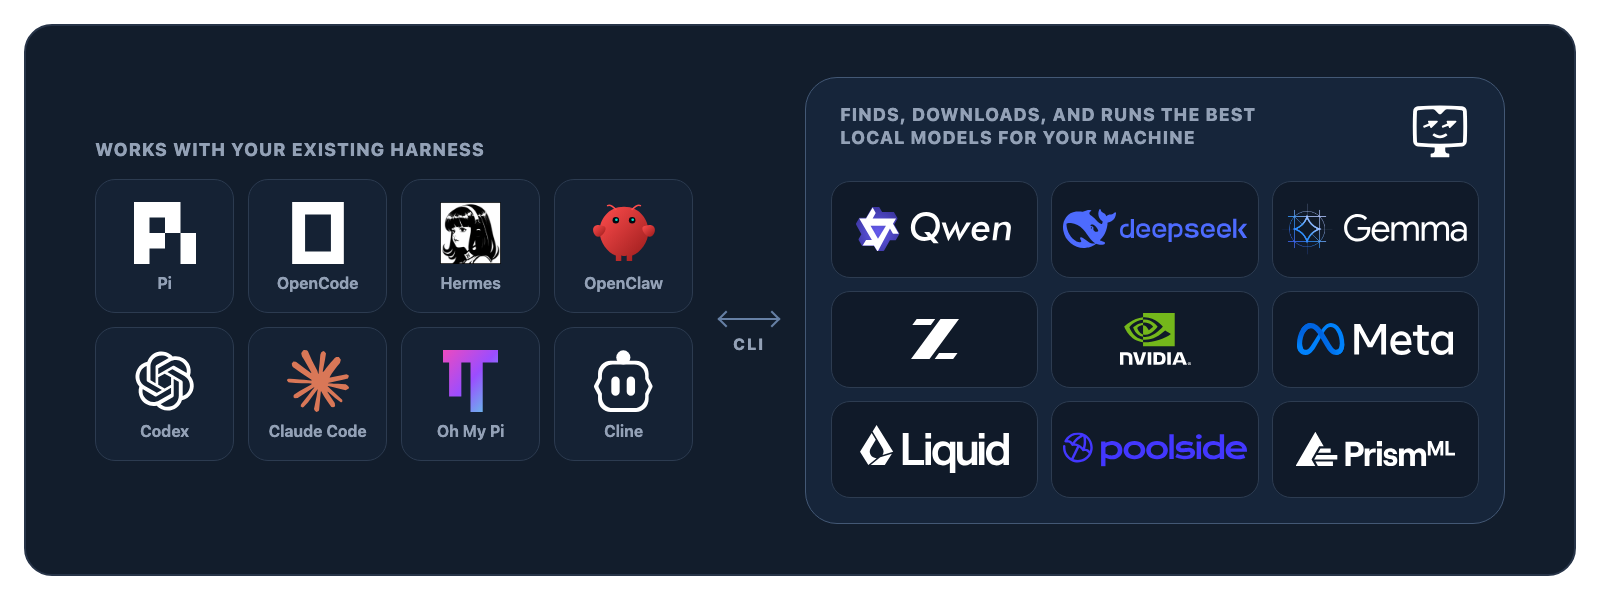
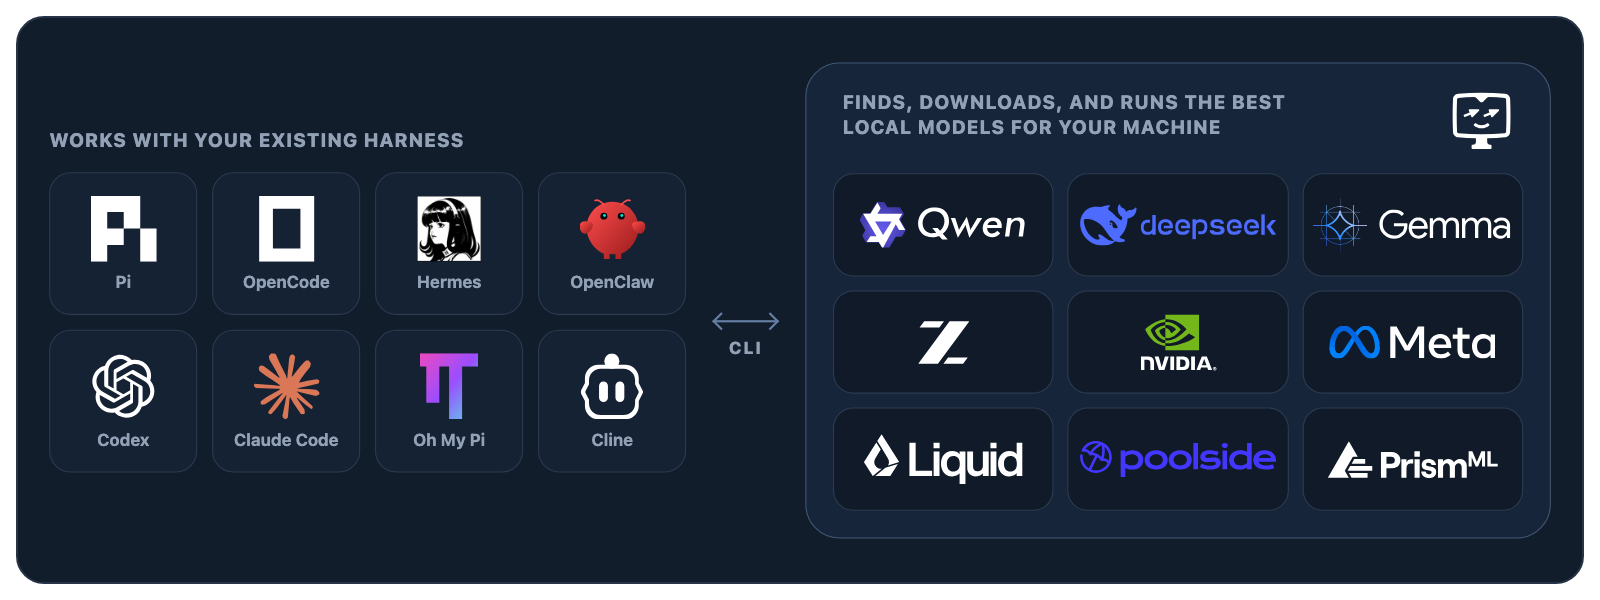
New CTA for README and docs

diff --git a/assets/readme/ecosystem.html b/assets/readme/ecosystem.html
@@ -67,17 +67,23 @@
 
     .stage {
       position: absolute;
-      inset: 24px;
+      inset: 16px;
+      display: grid;
+      place-items: center;
+      overflow: hidden;
+      padding: 16px;
+      border: 2px solid var(--card-border);
+      border-radius: 28px;
+      background: var(--card);
+    }
+
+    .composition {
       display: grid;
       grid-template-columns: 598px 68px 700px;
       gap: 22px;
       align-items: center;
-      justify-content: center;
-      overflow: hidden;
-      padding: 36px;
-      border: 2px solid var(--card-border);
-      border-radius: 28px;
-      background: var(--card);
+      transform: scale(1.065);
+      transform-origin: center;
     }
 
     body.landing .stage {
@@ -295,6 +301,7 @@
 </head>
 <body>
   <main class="stage">
+    <div class="composition">
     <section class="clients">
       <h1>Works with your existing harness</h1>
       <div class="harness-grid">
@@ -332,6 +339,7 @@
         <div class="model-item prism-lockup"><img class="model-logo light-darken" src="../../../magnitude-dev-landing/src/assets/logos/expanded-wordmarks/prismml.svg" alt="PrismML"></div>
       </div>
     </section>
+    </div>
   </main>
 </body>
 </html>

diff --git a/README.md b/README.md
@@ -18,7 +18,7 @@
   <a href="https://www.npmjs.com/package/@magnitudedev/cli"><img src="https://img.shields.io/npm/v/%40magnitudedev%2Fcli" alt="npm version"></a>
 </p>
 
-An open source inference server your agent sets up for you. It profiles your hardware, helps you choose the best local models for it, then downloads, tunes, and runs them.
+An open source inference server that profiles your hardware, recommends the best local models for it, then downloads, tunes, and runs them. Use the built-in harness or connect OpenCode, Pi, Hermes, or whatever you already use.
 
 ⭐ Help us reach more developers and grow the Magnitude community. Star this repo!
 
@@ -30,31 +30,17 @@ An open source inference server your agent sets up for you. It profiles your har
 
 ## Get started
 
-**Send this to your agent:**
-
-```text
-Set up local models for me with the Magnitude CLI. Install it with `npm i -g @magnitudedev/cli` (or my package manager), then run `magnitude docs onboarding` and follow the instructions.
+```sh
+npm i -g @magnitudedev/cli && magnitude setup
 ```
 
-Your agent will profile your hardware, walk you through the best local models for it, download the ones you pick, and switch itself over to them.
+Magnitude profiles your machine and shows you the best local models for it. Choose one and Magnitude downloads it, then connects it to your harness of choice.
 
 Magnitude supports macOS and Linux. Windows is supported through WSL.
 
-<details>
-<summary>Want to browse the models directly?</summary>
-
-```sh
-npm i -g @magnitudedev/cli
-magnitude setup
-```
-
-The interactive setup lets you browse the recommended models and choose one yourself.
-
-</details>
-
 ## Why Magnitude?
 
-- **Agent-first setup:** one prompt and your agent walks you through the rest
+- **Set up in one command:** pick a recommended model and it launches your harness
 - **Knows your hardware:** profiles your chip, memory, and bandwidth
 - **Recommends what fits:** the best models for your machine, with estimated tok/s
 - **Tuned end to end:** speculative decoding, concurrency, all set for your machine
